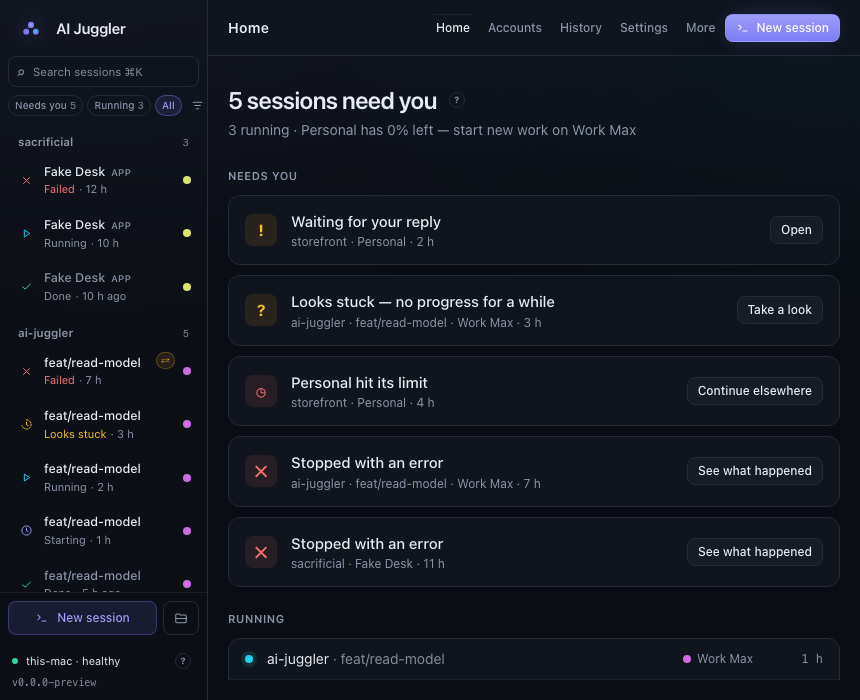
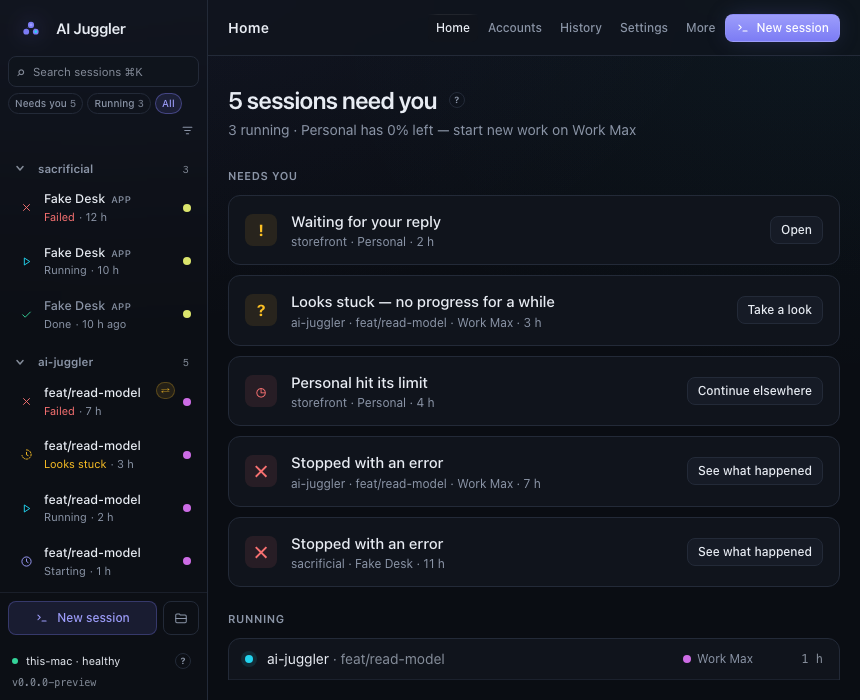
fix(rail): the filter row wraps instead of cutting off Filters (#96)
0.0.11 walk by hand (docs/qa/evidence/walks/2026-10-21-0.0.11.md), F5:
with counts on the chips ("Needs you 5", "Running 3") the Filters button
overflowed the rail at its starting width (208 px) and was clipped; with
two-digit counts it was gone. The row now wraps, so Filters drops to a
second line, still at the right, when the counts don't fit.

Playwright: the filter row stays inside the rail with one- and two-digit
counts (fails before this change).

diff --git a/ui/tests/visual/rail-narrow.spec.ts b/ui/tests/visual/rail-narrow.spec.ts
@@ -9,14 +9,14 @@ import AxeBuilder from "@axe-core/playwright";
 import { expect, test, type Page } from "@playwright/test";
 import { mkdirSync } from "node:fs";
 import { resolve } from "node:path";
-import { allStatuses } from "./fixtures";
+import { allStatuses, atScale } from "./fixtures";
 
 const OUT = resolve(process.cwd(), "../docs/qa/evidence/_gallery/69-rail-narrow");
 const T0 = 1_728_800_000_000;
 
 test.beforeAll(() => mkdirSync(OUT, { recursive: true }));
 
-async function seed(page: Page, theme: "dark" | "light", width: number, height: number, density = "comfortable") {
+async function seed(page: Page, theme: "dark" | "light", width: number, height: number, density = "comfortable", fixture: unknown = allStatuses) {
   await page.addInitScript(
     ({ fixture, theme, t0, density }) => {
       const w = window as unknown as Record<string, unknown>;
@@ -27,7 +27,7 @@ async function seed(page: Page, theme: "dark" | "light", width: number, height: 
       sessionStorage.setItem("aij.ready.skipped", "1");
       Date.now = () => t0;
     },
-    { fixture: allStatuses, theme, t0: T0, density },
+    { fixture, theme, t0: T0, density },
   );
   await page.emulateMedia({ reducedMotion: "reduce", colorScheme: theme });
   await page.setViewportSize({ width, height });
@@ -187,3 +187,19 @@ test("Ctrl+D typed in the terminal or a text field is the typing's, not the rail
   await page.keyboard.press("Control+d");
   await expect(rail(page)).toHaveAttribute("data-density", "compact");
 });
+
+// 0.0.11 walk: with counts on the chips ("Needs you 5", "Running 3") the
+// Filters button overflowed the rail at its starting width and was cut.
+for (const [name, fixture] of [["one-digit counts", allStatuses], ["two-digit counts", atScale]] as const) {
+  test(`the filter row stays inside the rail — ${name}`, async ({ page }) => {
+    await seed(page, "dark", 1280, 800, "comfortable", fixture);
+    const filters = page.getByRole("button", { name: /^Filters/ });
+    await expect(filters).toBeVisible();
+    const [box, edge] = await Promise.all([filters.boundingBox(), rail(page).boundingBox()]);
+    expect(box!.x + box!.width).toBeLessThanOrEqual(edge!.x + edge!.width - 8);
+    for (const chip of ["Needs you", "Running", "All"]) {
+      const chipBox = await page.getByRole("group", { name: "Show" }).getByRole("button", { name: new RegExp(`^${chip}`) }).boundingBox();
+      expect(chipBox!.x + chipBox!.width, chip).toBeLessThanOrEqual(edge!.x + edge!.width - 8);
+    }
+  });
+}

diff --git a/ui/src/components/WorkflowRail.tsx b/ui/src/components/WorkflowRail.tsx
@@ -448,7 +448,9 @@ export function InstanceBoard({
             className="w-full rounded-lg border border-hairline bg-surface/70 py-1.5 pl-6 pr-2 text-[11.5px] text-ink outline-none placeholder:text-faint focus-visible:ring-1 focus-visible:ring-accent/60"
           />
         </div>
-        <div className="flex min-w-0 items-center gap-1" role="group" aria-label="Show">
+        {/* Wraps rather than clip Filters when the counts don't fit the
+            rail's width (0.0.11 walk: "Needs you 5 · Running 3" at 208 px). */}
+        <div className="flex min-w-0 flex-wrap items-center gap-1" role="group" aria-label="Show">
           <FilterChip
             active={filters.chips.includes("needs")}
             onClick={() => setFilters((current) => ({ ...current, chips: current.chips.includes("needs") ? [] : ["needs"] }))}
